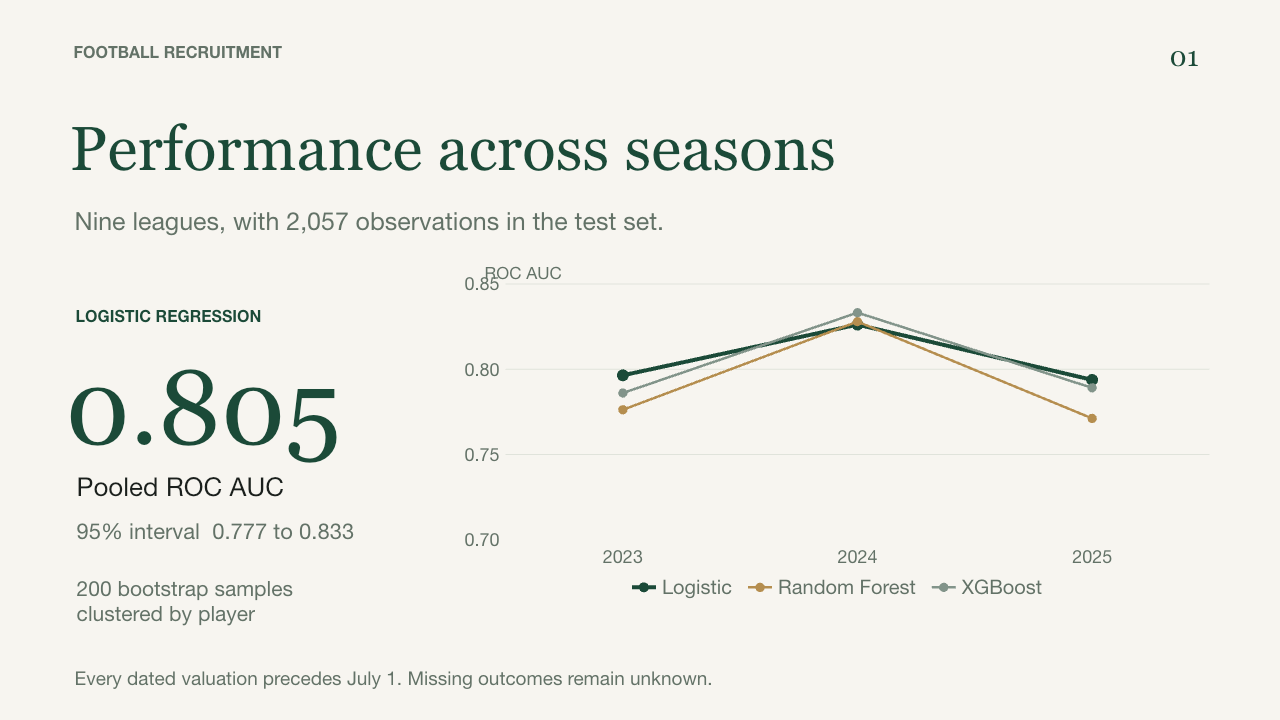
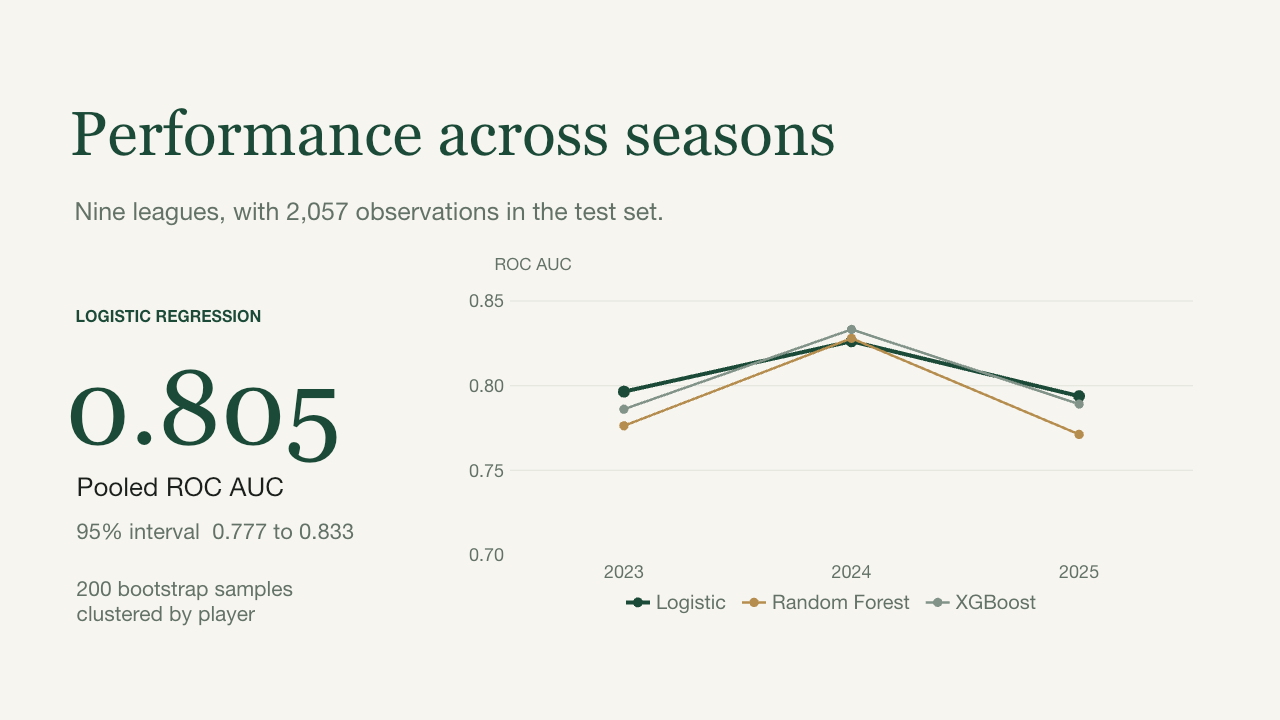
Simplify slide layouts and remove presenter notes

diff --git a/README.md b/README.md
@@ -11,7 +11,7 @@ Test AUC: Logistic 0.805, Random Forest 0.792, XGBoost 0.802, TabICL 0.811. TabI
 ## Start here
 
 - `docs/index.html`: concise standalone report. Download it and open locally.
-- `deliverables/Football stability.pptx`: two editable slides, with speaker notes. [Preview 1](deliverables/previews/slide-1.png) · [Preview 2](deliverables/previews/slide-2.png)
+- `deliverables/Football stability.pptx`: two editable slides without presenter notes. [Preview 1](deliverables/previews/slide-1.png) · [Preview 2](deliverables/previews/slide-2.png)
 - `deliverables/Speaker notes.md`: 90-second script and Q&A.
 - `audit.ipynb`: executed audit notebook.
 - `HANDOFF.md`: group message and decisions to confirm.
